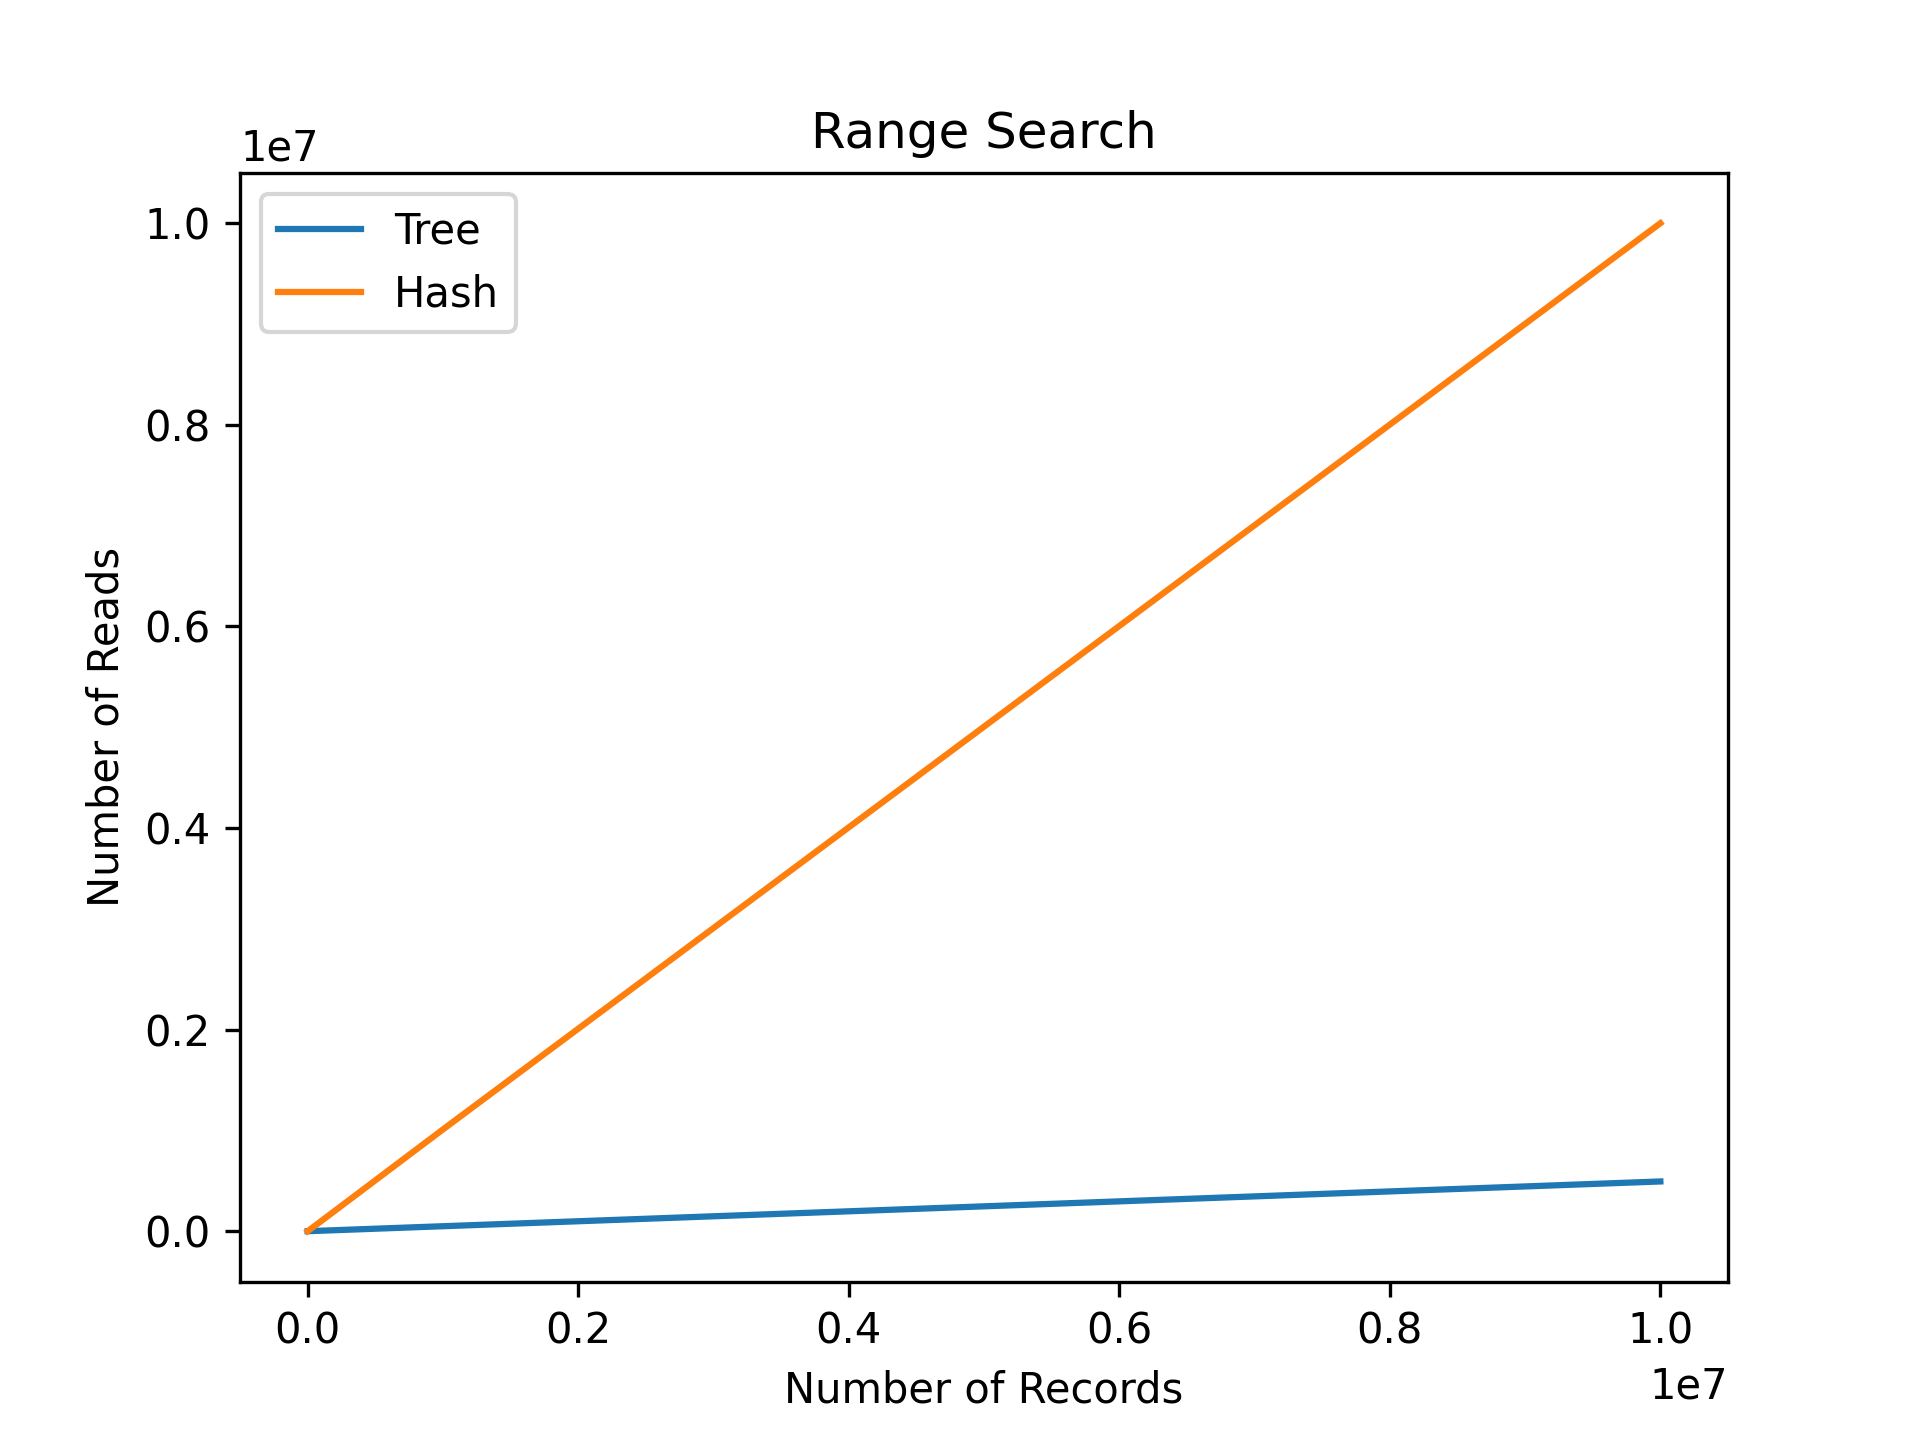
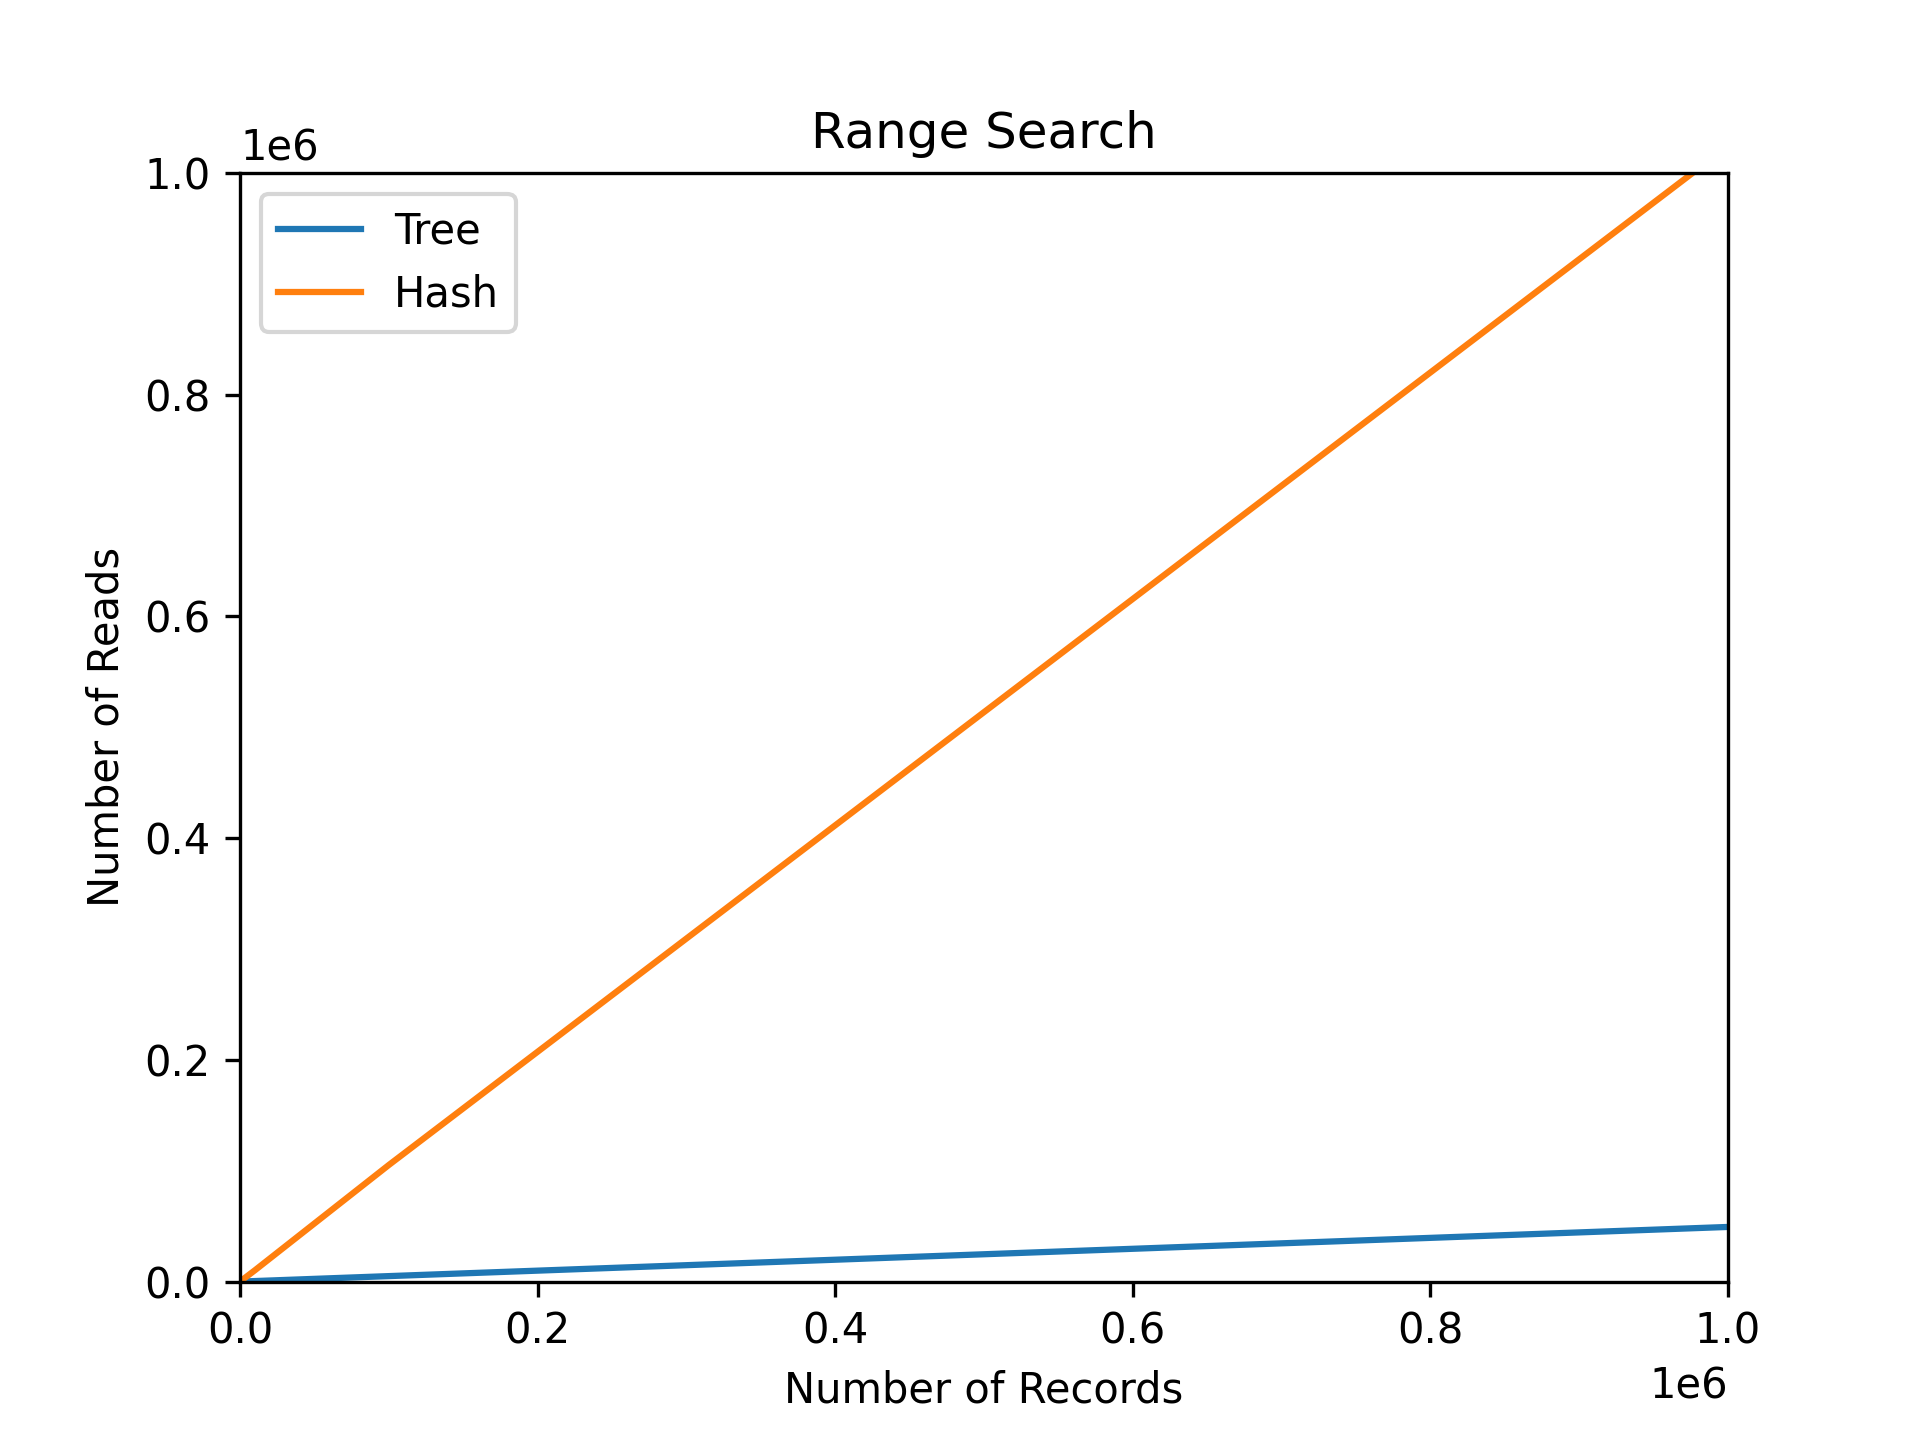
added more code to generate python plots

diff --git a/benchmark.c b/benchmark.c
@@ -107,19 +107,11 @@ void benchmarkTreeRangeSearch(record* testArr, int nRecords, FILE* fout) {
   
   clearPageManager();
   for (int i = 0; i < nRecords; ++i) treeInsert(&root, testArr[i]);
-  // fprintf(fout, ", INSERT R: %i, W: %i", pm->reads, pm->writes);
-
-  // printf("tree searching...\n");
-  
-  // clearPageManager();
-  // for (int i = 0; i < nRecords; ++i) treeSearch(root, testArr[i].id);
-  // fprintf(fout, ", SEARCH R: %i, W: %i", pm->reads, pm->writes);
 
   printf("tree range searching...\n");
 
   clearPageManager();
   treeRangeSearch(root, -1, -1);
-  // fprintf(fout, ", RS-ALL R: %i, W: %i\n", pm->reads, pm->writes);
   fprintf(fout, "%i\n", pm->reads);
   return;
 }
@@ -132,20 +124,50 @@ void benchmarkHashRangeSearch(record* testArr, int nRecords, FILE* fout) {
   
   clearPageManager();
   for (int i = 0; i < nRecords; ++i) hashInsert(ht, testArr[i], -1);
-  // fprintf(fout, ", INSERT R: %i, W: %i", pm->reads, pm->writes);
-
-  // printf("hash searching...\n");
-  
-  // clearPageManager();
-  // for (int i = 0; i < nRecords; ++i) hashSearch(ht, testArr[i].id);
-  // fprintf(fout, ", SEARCH R: %i, W: %i", pm->reads, pm->writes);
 
   printf("hash range searching...\n");
 
   clearPageManager();
   hashRangeSearch(ht, 0, nRecords-1);
-  // fprintf(fout, ", RS-ALL R: %i, W: %i\n", pm->reads, pm->writes);
   fprintf(fout, "%i\n", pm->reads);
+  return;
+}
+
+void benchmarkTreeSearch(record* testArr, int nRecords, FILE* fout) {
+  pageptr root = initTree();
+  fprintf(fout, "%i ", nRecords);
+
+  printf("tree inserting...\n");
+  
+  clearPageManager();
+  for (int i = 0; i < nRecords; ++i) treeInsert(&root, testArr[i]);
+
+  printf("tree searching...\n");
+  
+  clearPageManager();
+  for (int i = 0; i < nRecords; ++i) treeSearch(root, testArr[i].id);
+  fprintf(fout, "%i\n", pm->reads);
+  
+  return;
+}
+
+void benchmarkHashSearch(record* testArr, int nRecords, FILE* fout) {
+  hashTable* ht = initHashTable();
+  fprintf(fout, "%i ", nRecords);
+
+  printf("hash inserting...\n");
+  
+  clearPageManager();
+  for (int i = 0; i < nRecords; ++i) hashInsert(ht, testArr[i], -1);
+
+  printf("hash searching...\n");
+  
+  clearPageManager();
+  for (int i = 0; i < nRecords; ++i) hashSearch(ht, testArr[i].id);
+  fprintf(fout, "%i\n", pm->reads);
+
+  printf("hash range searching...\n");
+  
   return;
 }
 
@@ -335,44 +357,68 @@ int main(int argc, char** argv) {
   
   fclose(fout);
 
-  // for python plots
 
-  fout = fopen("plotStats.txt", "w+");
-  writeSizes(fout);
 
-  record* random10 = genRandomRecords(10);
-  record* random100 = genRandomRecords(100);
-  record* random1000 = genRandomRecords(1000);
-  record* random10000 = genRandomRecords(10000);
-  record* random100000 = genRandomRecords(100000);
-  record* random1000000 = genRandomRecords(1000000);
-  record* random10000000 = genRandomRecords(10000000);
-  // record* random100000000 = genRandomRecords(100000000); //comp cant handle
-  printf("done generating record arrays\n");
 
-  fputs("nRecords nReads\n", fout);
-  fputs("\nTREE\n", fout);
-  benchmarkTreeRangeSearch(random10, 10, fout);
-  benchmarkTreeRangeSearch(random100, 100, fout);
-  benchmarkTreeRangeSearch(random1000, 1000, fout);
-  benchmarkTreeRangeSearch(random10000, 10000, fout);
-  benchmarkTreeRangeSearch(random100000, 100000, fout);
-  benchmarkTreeRangeSearch(random1000000, 1000000, fout);
-  benchmarkTreeRangeSearch(random10000000, 10000000, fout);
-  // benchmarkTreeRangeSearch(random100000000, 100000000, fout); //comp cant handle
 
-  fputs("\nHASH\n", fout);
-  benchmarkHashRangeSearch(random10, 10, fout);
-  benchmarkHashRangeSearch(random100, 100, fout);
-  benchmarkHashRangeSearch(random1000, 1000, fout);
-  benchmarkHashRangeSearch(random10000, 10000, fout);
-  benchmarkHashRangeSearch(random100000, 100000, fout);
-  benchmarkHashRangeSearch(random1000000, 1000000, fout);
-  benchmarkHashRangeSearch(random10000000, 10000000, fout);
-  // benchmarkHashRangeSearch(random100000000, 100000000, fout); //comp cant handle 
+
+  // // for python plots
+
+  // record* random10 = genRandomSkewedRecords(10);
+  // record* random100 = genRandomSkewedRecords(100);
+  // record* random1000 = genRandomSkewedRecords(1000);
+  // record* random10000 = genRandomSkewedRecords(10000);
+  // record* random100000 = genRandomSkewedRecords(100000);
+  // record* random1000000 = genRandomSkewedRecords(1000000);
+  // // record* random10000000 = genRandomRecords(10000000);
+  // // record* random100000000 = genRandomRecords(100000000); //comp cant handle
+  // printf("done generating record arrays\n");
+
+  // fout = fopen("plotRangeSearchStats.txt", "w+");
+  // writeSizes(fout);
   
-  fputs("\n", fout);
-  fclose(fout);
+  // fputs("nRecords nReads\n", fout);
+  // fputs("\nTREE\n", fout);
+  // benchmarkTreeRangeSearch(random10, 10, fout);
+  // benchmarkTreeRangeSearch(random100, 100, fout);
+  // benchmarkTreeRangeSearch(random1000, 1000, fout);
+  // benchmarkTreeRangeSearch(random10000, 10000, fout);
+  // benchmarkTreeRangeSearch(random100000, 100000, fout);
+  // benchmarkTreeRangeSearch(random1000000, 1000000, fout);
+
+  // fputs("\nHASH\n", fout);
+  // benchmarkHashRangeSearch(random10, 10, fout);
+  // benchmarkHashRangeSearch(random100, 100, fout);
+  // benchmarkHashRangeSearch(random1000, 1000, fout);
+  // benchmarkHashRangeSearch(random10000, 10000, fout);
+  // benchmarkHashRangeSearch(random100000, 100000, fout);
+  // benchmarkHashRangeSearch(random1000000, 1000000, fout);
+  
+  // fputs("\n", fout);
+  // fclose(fout);
+
+  // fout = fopen("plotSearchStats.txt", "w+");
+  // writeSizes(fout);
+
+  // fputs("nRecords nReads\n", fout);
+  // fputs("\nTREE\n", fout);
+  // benchmarkTreeSearch(random10, 10, fout);
+  // benchmarkTreeSearch(random100, 100, fout);
+  // benchmarkTreeSearch(random1000, 1000, fout);
+  // benchmarkTreeSearch(random10000, 10000, fout);
+  // benchmarkTreeSearch(random100000, 100000, fout);
+  // benchmarkTreeSearch(random1000000, 1000000, fout);
+
+  // fputs("\nHASH\n", fout);
+  // benchmarkHashSearch(random10, 10, fout);
+  // benchmarkHashSearch(random100, 100, fout);
+  // benchmarkHashSearch(random1000, 1000, fout);
+  // benchmarkHashSearch(random10000, 10000, fout);
+  // benchmarkHashSearch(random100000, 100000, fout);
+  // benchmarkHashSearch(random1000000, 1000000, fout);
+  
+  // fputs("\n", fout);
+  // fclose(fout);
 
 
   return 0;

diff --git a/plotStats.py b/plotStats.py
@@ -2,7 +2,7 @@ import matplotlib.pyplot as plt
 
 
 
-with open('plotStats.txt') as f:
+with open('plotRangeSearchStats.txt') as f:
     l = f.readline()
     while ("TREE" not in l):
         l = f.readline()
@@ -28,11 +28,54 @@ plt.plot(x_tree, y_tree, label="Tree")
 plt.plot(x_hash, y_hash, label="Hash")
 # plt.yscale("log")
 # plt.xscale("log")
+plt.xlim(right=1E6)
+plt.xlim(left=0)
+plt.ylim(top=1E6)
+plt.ylim(bottom=0)
 plt.xlabel('Number of Records')
 plt.ylabel('Number of Reads')
 plt.title('Range Search')
 plt.legend()
 # plt.show()
 plt.savefig("rangeSearchReadsPlot.png", dpi=300)
+
+plt.clf()
+
+with open('plotSearchStats.txt') as f:
+    l = f.readline()
+    while ("TREE" not in l):
+        l = f.readline()
+    tree_lines = []
+    l = f.readline()
+    while (l != "\n"):
+        tree_lines.append(l)
+        l = f.readline()
+    x_tree = [int(line.strip().split(" ")[0]) for line in tree_lines]
+    y_tree = [int(line.strip().split(" ")[1]) for line in tree_lines]
+
+    while ("HASH" not in l):
+        l = f.readline()
+    hash_lines = []
+    l = f.readline()
+    while (l != "\n"):
+        hash_lines.append(l)
+        l = f.readline()
+    x_hash = [int(line.strip().split()[0]) for line in hash_lines]
+    y_hash = [int(line.strip().split()[1]) for line in hash_lines]
+
+plt.plot(x_tree, y_tree, label="Tree")
+plt.plot(x_hash, y_hash, label="Hash")
+# plt.yscale("log")
+# plt.xscale("log")
+plt.xlim(right=1E6) 
+plt.xlim(left=0) 
+plt.ylim(top=1E6) 
+plt.ylim(bottom=0) #
+plt.xlabel('Number of Records')
+plt.ylabel('Number of Reads')
+plt.title('Search')
+plt.legend()
+# plt.show()
+plt.savefig("searchReadsPlot.png", dpi=300)
 
     
